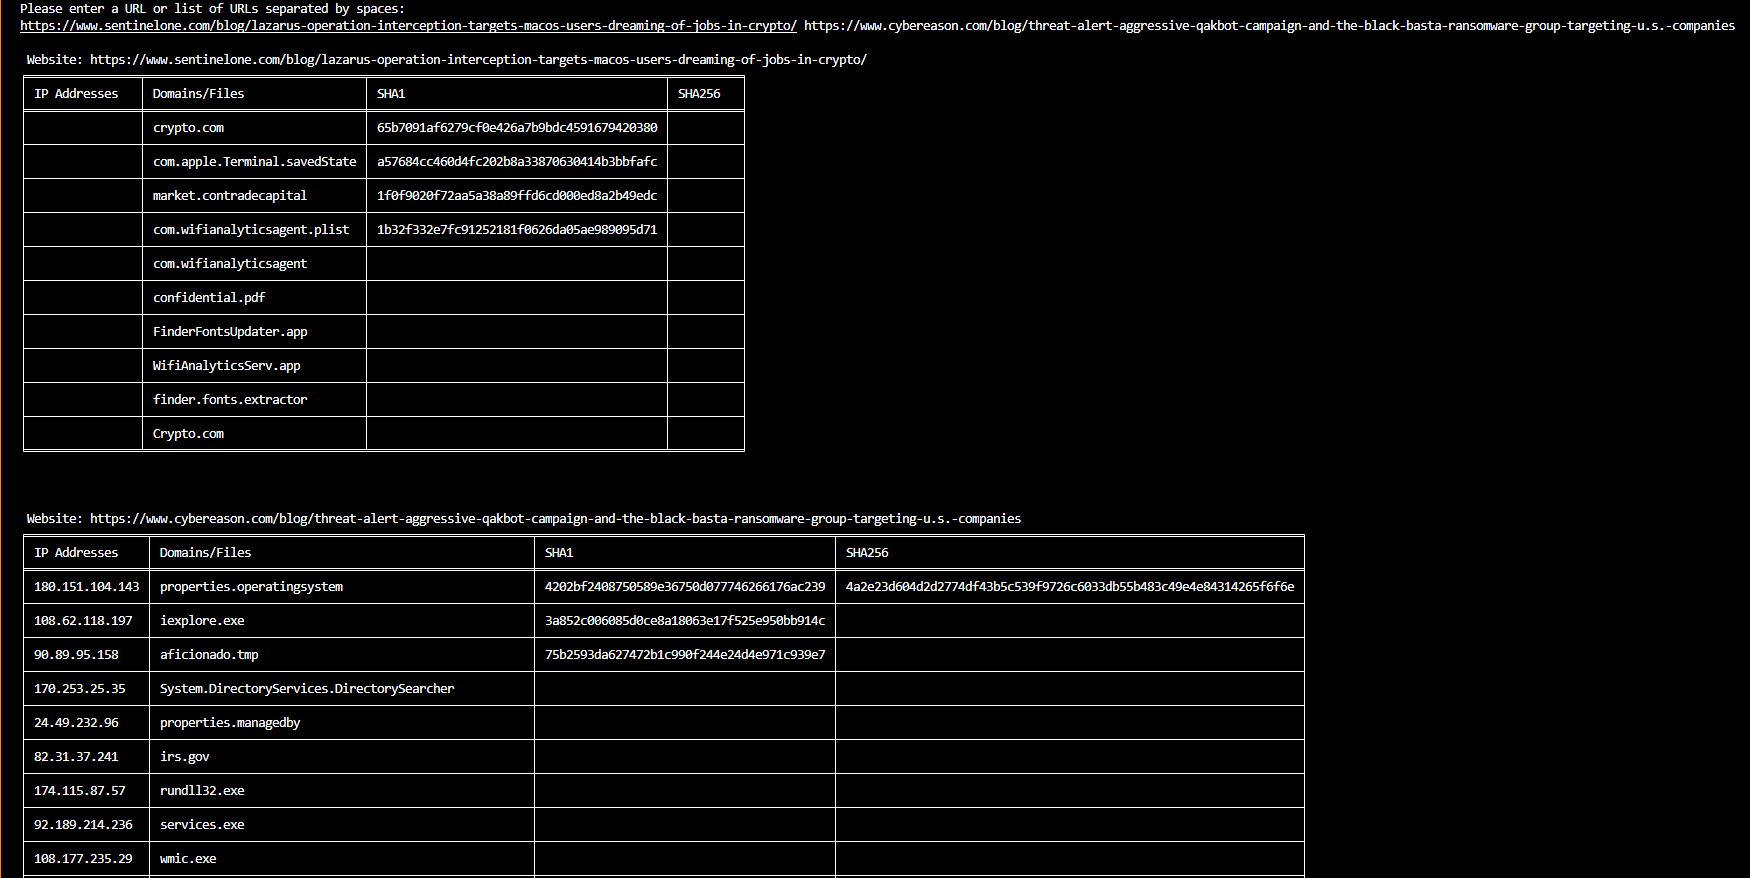
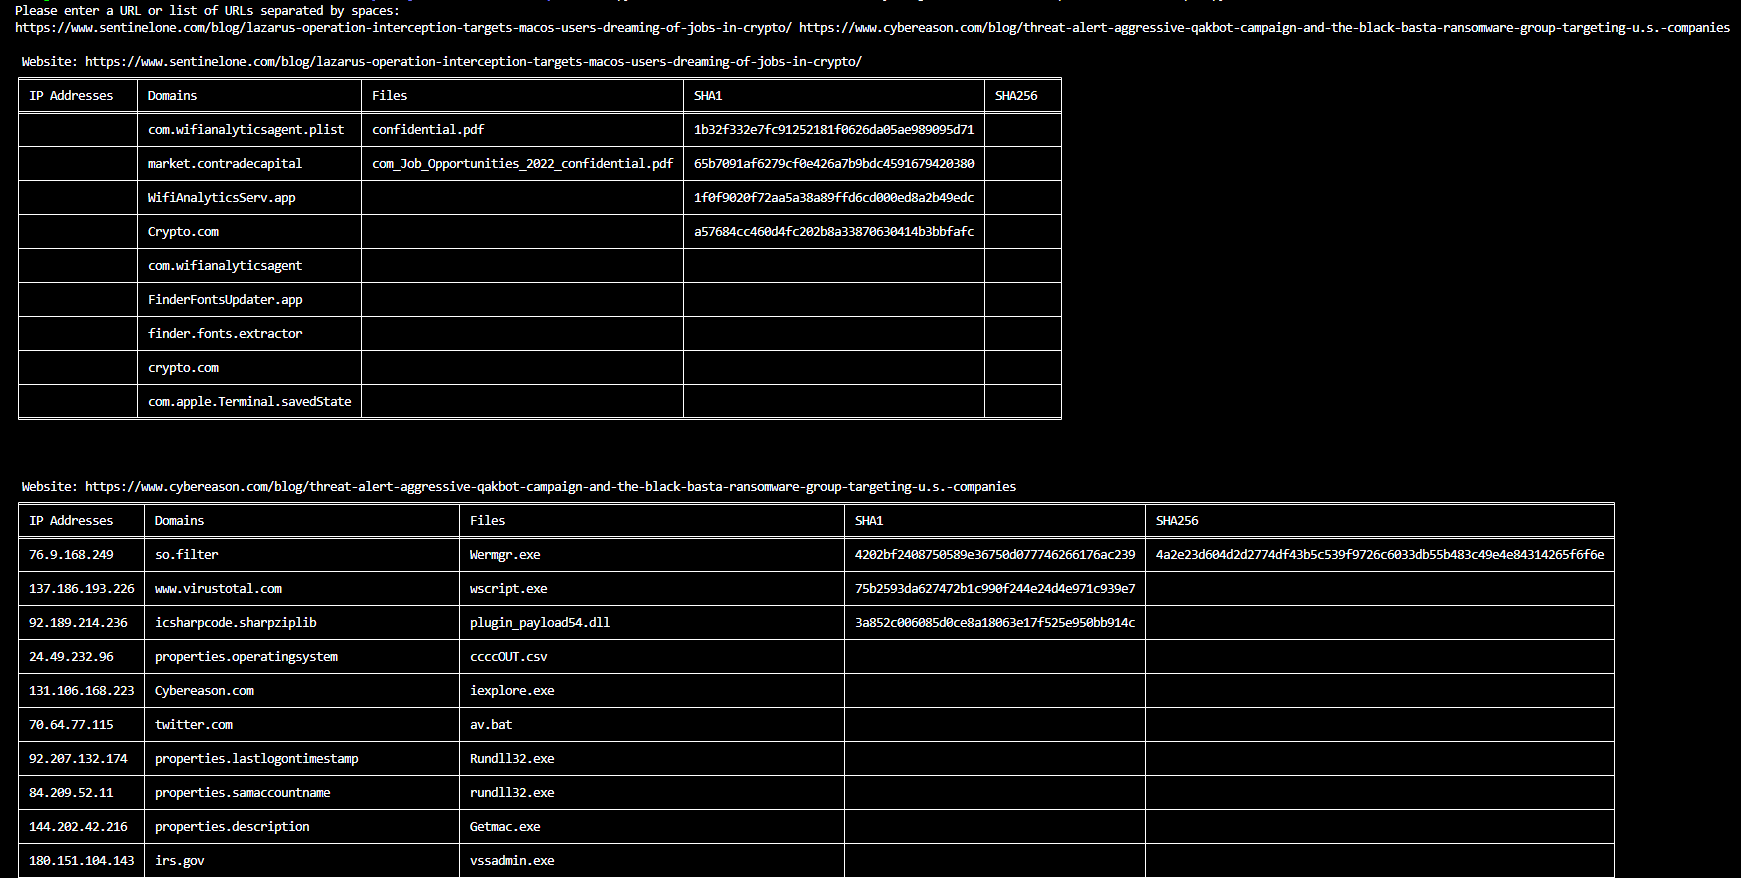
separated domains and files, updated demo pic

diff --git a/osint-ioc-scraper.py b/osint-ioc-scraper.py
@@ -26,7 +26,8 @@ def scrape_website(url):
 
         # Define regex patterns for IP addresses, domains, MD5, SHA-1, and SHA-256.
         ip_regex = r'\b(?:\d{1,3}\.\d{1,3}\.\d{1,3}\.\d{1,3}(?:/\d{1,2})?)\b'
-        domain_regex = r'\b(((?=[a-z0-9-]{1,63}\.)(xn--)?[a-z0-9]+(?:-[a-z0-9]+)*\.)+[a-z]{2,63})\b' #|(?!pdf|docx?|xlsx?|txt|jpg|jpeg|png|exe|dll|js|vbs|bat|ps1|zip|rar|7z|tar|gz|bin|dat|csv|json|html|css|xml|php|asp|py|rb|java|cpp|h|c|swift|go|lua|js|ts|jsx|tsx|sql|db|ini|cfg|conf|yaml|yml|sh|log|csv|tsv|sql|db|bak|backup)[a-z0-9]+\b'
+        domain_regex =  r'\b(((?=[a-z0-9-]{1,63}\.)(xn--)?[a-z0-9]+(?:-[a-z0-9]+)*\.)+[a-z]{2,63})\b' #(?!.*\.(pdf|docx?|xlsx?|txt|jpg|jpeg|png|exe|dll|js|vbs|bat|ps1|zip|rar|7z|tar|gz|bin|dat|csv|json|html|css|xml|php|asp|py|rb|java|cpp|h|c|swift|go|lua|js|ts|jsx|tsx|sql|db|ini|cfg|conf|yaml|yml|sh|log|tsv|bak|backup)$))\b'
+        files_regex = r'\b([a-zA-Z0-9_-]+\.(?:pdf|docx?|xlsx?|txt|jpg|jpeg|png|exe|dll|js|vbs|bat|ps1|zip|rar|7z|tar|gz|bin|dat|csv|json|html|css|xml|php|asp|py|rb|java|cpp|h|c|swift|go|lua|js|ts|jsx|tsx|sql|db|ini|cfg|conf|yaml|yml|sh|log|csv|tsv|sql|db|bak|backup))\b'
         md5_regex = r'\b[a-f0-9]{32}\b'
         sha1_regex = r'\b[a-f0-9]{40}\b'
         sha256_regex = r'\b[a-f0-9]{64}\b'
@@ -34,6 +35,7 @@ def scrape_website(url):
         #Extract data using the defined patterns
         ip_addresses = extract_patterns(webpage_text, ip_regex)
         domains = extract_patterns(webpage_text, domain_regex)
+        files = extract_patterns(webpage_text, files_regex)
         md5_hashes = extract_patterns(webpage_text, md5_regex)
         sha1_hashes = extract_patterns(webpage_text, sha1_regex)
         sha256_hashes = extract_patterns(webpage_text, sha256_regex)
@@ -41,6 +43,7 @@ def scrape_website(url):
         #Remove empty values and unwanted characters
         ip_addresses = [ip.rstrip("',[]()")  for ip in ip_addresses if ip]  # Remove empty strings
         domains = [domain[0].rstrip("',[]()") for domain in domains if domain and domain[0] and not all(char in "()'" for char in domain)]  # Remove empty and undesired values
+        files = [file.rstrip("',[]()") for file in files if file]
         md5_hashes = [md5.rstrip("',[]()")  for md5 in md5_hashes if md5]
         sha1_hashes = [sha1.rstrip("',[]()")  for sha1 in sha1_hashes if sha1]
         sha256_hashes = [sha256.rstrip("',[]()")  for sha256 in sha256_hashes if sha256]
@@ -48,7 +51,11 @@ def scrape_website(url):
 
         print('\n Website: ' + url)
         #Create key value pairs for table
-        table = {'IP Addresses': ip_addresses, 'Domains/Files': domains, 'SHA1': sha1_hashes, 'SHA256': sha256_hashes}
+        table = {'IP Addresses': ip_addresses, 'Domains': domains, 'Files': files, 'SHA1': sha1_hashes, 'SHA256': sha256_hashes}
+        #Remove files output showing up in domains column
+        for file_entry in files:
+            if file_entry in domains:
+                domains.remove(file_entry)
         # Print the table
         print(tabulate(table, headers='keys',tablefmt='fancy_grid'))
         print("\n")
